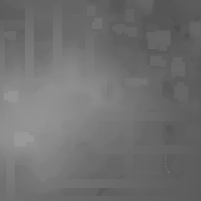
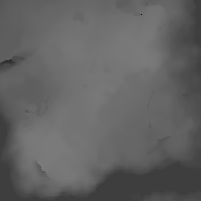
Add smooth terrain

diff --git a/world_maker/terraforming.py b/world_maker/terraforming.py
@@ -1,14 +1,14 @@
 from typing import Union
 
 import numpy as np
-from gdpc import Editor, Block, geometry
+from gdpc import Editor, Block, geometry, lookup
 from PIL import Image
 from skimage import morphology
 
 from world_maker.data_analysis import handle_import_image
 
 
-def remove_trees(heightmap: Union[str, Image], treesmap: Union[str, Image], mask: Union[str, Image], ):
+def remove_trees(heightmap: Union[str, Image], treesmap: Union[str, Image], mask: Union[str, Image]):
 
     editor = Editor(buffering=True)
     build_area = editor.getBuildArea()
@@ -29,7 +29,7 @@ def remove_trees(heightmap: Union[str, Image], treesmap: Union[str, Image], mask
     for x in range(0, distance[0]):
         for z in range(0, distance[1]):
 
-            if mask.getpixel((x, z)) == 255 and treesmap.getpixel((x, z)) > 0 and (x, z) not in removed:
+            if mask.getpixel((x, z)) != 0 and treesmap.getpixel((x, z)) > 0 and (x, z) not in removed:
 
                 treeArea = morphology.flood(treesmap, (z, x), tolerance=1)
                 blend = Image.blend(Image.fromarray(treeArea).convert(
@@ -52,3 +52,48 @@ def remove_trees(heightmap: Union[str, Image], treesmap: Union[str, Image], mask
                 y_top = removed_treesmap.getpixel((x, z))
                 geometry.placeLine(
                     editor, (start[0] + x, y+1, start[1] + z), (start[0] + x, y_top, start[1] + z), Block('air'))
+
+
+def smooth_terrain(heightmap: Union[str, Image], heightmap_smooth: Union[str, Image], mask: Union[str, Image]):
+
+    editor = Editor()
+    build_area = editor.getBuildArea()
+    build_rectangle = build_area.toRect()
+
+    start = build_rectangle.begin
+
+    distance = (max(build_rectangle.end[0], build_rectangle.begin[0]) - min(build_rectangle.end[0], build_rectangle.begin[0]), max(
+        build_rectangle.end[1], build_rectangle.begin[1]) - min(build_rectangle.end[1], build_rectangle.begin[1]))
+
+    heightmap = handle_import_image(heightmap).convert('L')
+    heightmap_smooth = handle_import_image(heightmap_smooth).convert('L')
+    mask = handle_import_image(mask).convert('L')
+
+    smooth_terrain_delta = Image.new("RGB", distance, 0)
+
+    slice = editor.loadWorldSlice(build_rectangle)
+    smoothable_blocks = lookup.OVERWORLD_SOILS | lookup.OVERWORLD_STONES | lookup.SNOWS
+
+    for x in range(0, distance[0]):
+        for z in range(0, distance[1]):
+
+            if mask.getpixel((x, z)) != 0:
+                y = heightmap.getpixel((x, z))
+                y_smooth = heightmap_smooth.getpixel((x, z))
+                delta = y - y_smooth
+                smooth_terrain_delta.putpixel((x, z), delta)
+
+                if delta != 0:
+                    block = slice.getBlock((x, y, z))
+                    if block.id in smoothable_blocks:
+                        if delta > 0:
+                            geometry.placeLine(
+                                editor, (start[0] + x, y, start[1] + z), (start[0] + x, y_smooth, start[1] + z), Block('air'))
+                            editor.placeBlock(
+                                (start[0] + x, y_smooth, start[1] + z), block)
+
+                        else:
+                            geometry.placeLine(
+                                editor, (start[0] + x, y, start[1] + z), (start[0] + x, y_smooth, start[1] + z), block)
+
+    smooth_terrain_delta.save('./world_maker/data/smooth_terrain_delta.png')

diff --git a/world_maker/data_analysis.py b/world_maker/data_analysis.py
@@ -105,7 +105,7 @@ def filter_sobel(image: Union[str, Image]) -> Image:
     return image
 
 
-def filter_smooth(image: Union[str, Image], radius: int = 3):
+def filter_smooth_theshold(image: Union[str, Image], radius: int = 3):
     """
     :param image: white and black image representing the derivative of the terrain (sobel), where black is flat and white is very steep.
     :param radius: Radius of the Gaussian blur.
@@ -133,6 +133,14 @@ def filter_smooth(image: Union[str, Image], radius: int = 3):
     # bool_array = ndimage.binary_closing(bool_array, structure=np.ones((7,7)), iterations=1)
 
     return Image.fromarray(bool_array)
+
+
+def filter_smooth(image: Union[str, Image], radius: int = 3):
+
+    image = handle_import_image(image)
+    image = image.convert('L')
+    image = image.filter(ImageFilter.GaussianBlur(radius))
+    return image
 
 
 def subtract_map(image: Union[str, Image], substractImage: Union[str, Image]) -> Image:
@@ -163,7 +171,7 @@ def group_map(image1: Union[str, Image], image2: Union[str, Image]) -> Image:
 
 def filter_smooth_array(array: np.ndarray, radius: int = 3) -> np.ndarray:
     image = Image.fromarray(array)
-    smooth_image = filter_smooth(image, radius)
+    smooth_image = filter_smooth_theshold(image, radius)
     array = np.array(smooth_image)
     return array
 
@@ -182,7 +190,7 @@ def filter_remove_details(image: Union[str, Image], n: int = 20) -> Image:
 
 def highway_map() -> Image:
     print("[Data Analysis] Generating highway map...")
-    smooth_sobel = filter_smooth("./world_maker/data/sobelmap.png", 1)
+    smooth_sobel = filter_smooth_theshold("./world_maker/data/sobelmap.png", 1)
     negative_smooth_sobel = filter_negative(smooth_sobel)
     negative_smooth_sobel_water = subtract_map(
         negative_smooth_sobel, './world_maker/data/watermap.png')
@@ -247,7 +255,7 @@ def smooth_sobel_water() -> Image:
     watermap = filter_negative(
         filter_remove_details(filter_negative(watermap), 5))
     sobel = handle_import_image("./world_maker/data/sobelmap.png")
-    sobel = filter_remove_details(filter_smooth(sobel, 1), 2)
+    sobel = filter_remove_details(filter_smooth_theshold(sobel, 1), 2)
     group = group_map(watermap, sobel)
     group = filter_negative(group)
     group.save('./world_maker/data/smooth_sobel_watermap.png')

diff --git a/main.py b/main.py
@@ -5,7 +5,7 @@ import gdpc.exceptions
 from world_maker.world_maker import *
 from world_maker.data_analysis import transpose_form_heightmap
 from world_maker.Skeleton import Skeleton, simplify_coordinates
-from world_maker.terraforming import remove_trees
+from world_maker.terraforming import remove_trees, smooth_terrain
 from networks.geometry.Point3D import Point3D
 from networks.roads_2.Road import Road
 from networks.legacy_roads import roads
@@ -21,8 +21,10 @@ def main():
     buildArea = editor.getBuildArea()
     origin = ((buildArea.begin).x, (buildArea.begin).z)
 
-    remove_trees('./world_maker/data/heightmap.png',
-                 './world_maker/data/treemap.png', './world_maker/data/smooth_sobel_watermap.png')
+    # remove_trees('./world_maker/data/heightmap.png', './world_maker/data/treemap.png',
+    #              './world_maker/data/smooth_sobel_watermap.png')
+    smooth_terrain('./world_maker/data/heightmap.png',
+                   './world_maker/data/heightmap_smooth.png', './world_maker/data/smooth_sobel_watermap.png')
 
     # set_roads(skeleton_mountain, origin)
     # set_roads(skeleton_highway, origin)

diff --git a/world_maker/world_maker.py b/world_maker/world_maker.py
@@ -1,7 +1,7 @@
 from world_maker.World import World
 from PIL import Image
 from world_maker.data_analysis import (get_data, filter_negative, rectangle_2D_to_3D, skeleton_mountain_map, highway_map, filter_sobel, skeleton_highway_map,
-                                       smooth_sobel_water, subtract_map, detect_mountain)
+                                       smooth_sobel_water, subtract_map, detect_mountain, filter_smooth)
 from world_maker.City import City
 from world_maker.Position import Position
 from random import randint
@@ -11,8 +11,13 @@ from world_maker.pack_rectangle import generate_building
 def world_maker():
     world = World()
     heightmap, watermap, treemap = get_data(world)
+
+    filter_smooth(
+        './world_maker/data/heightmap.png', 4).save('./world_maker/data/heightmap_smooth.png')
+
     filter_sobel(
         "./world_maker/data/heightmap.png").save('./world_maker/data/sobelmap.png')
+
     smooth_sobel_water_map = smooth_sobel_water()
     skeleton_highway = skeleton_highway_map(highway_map())
     city = City()
